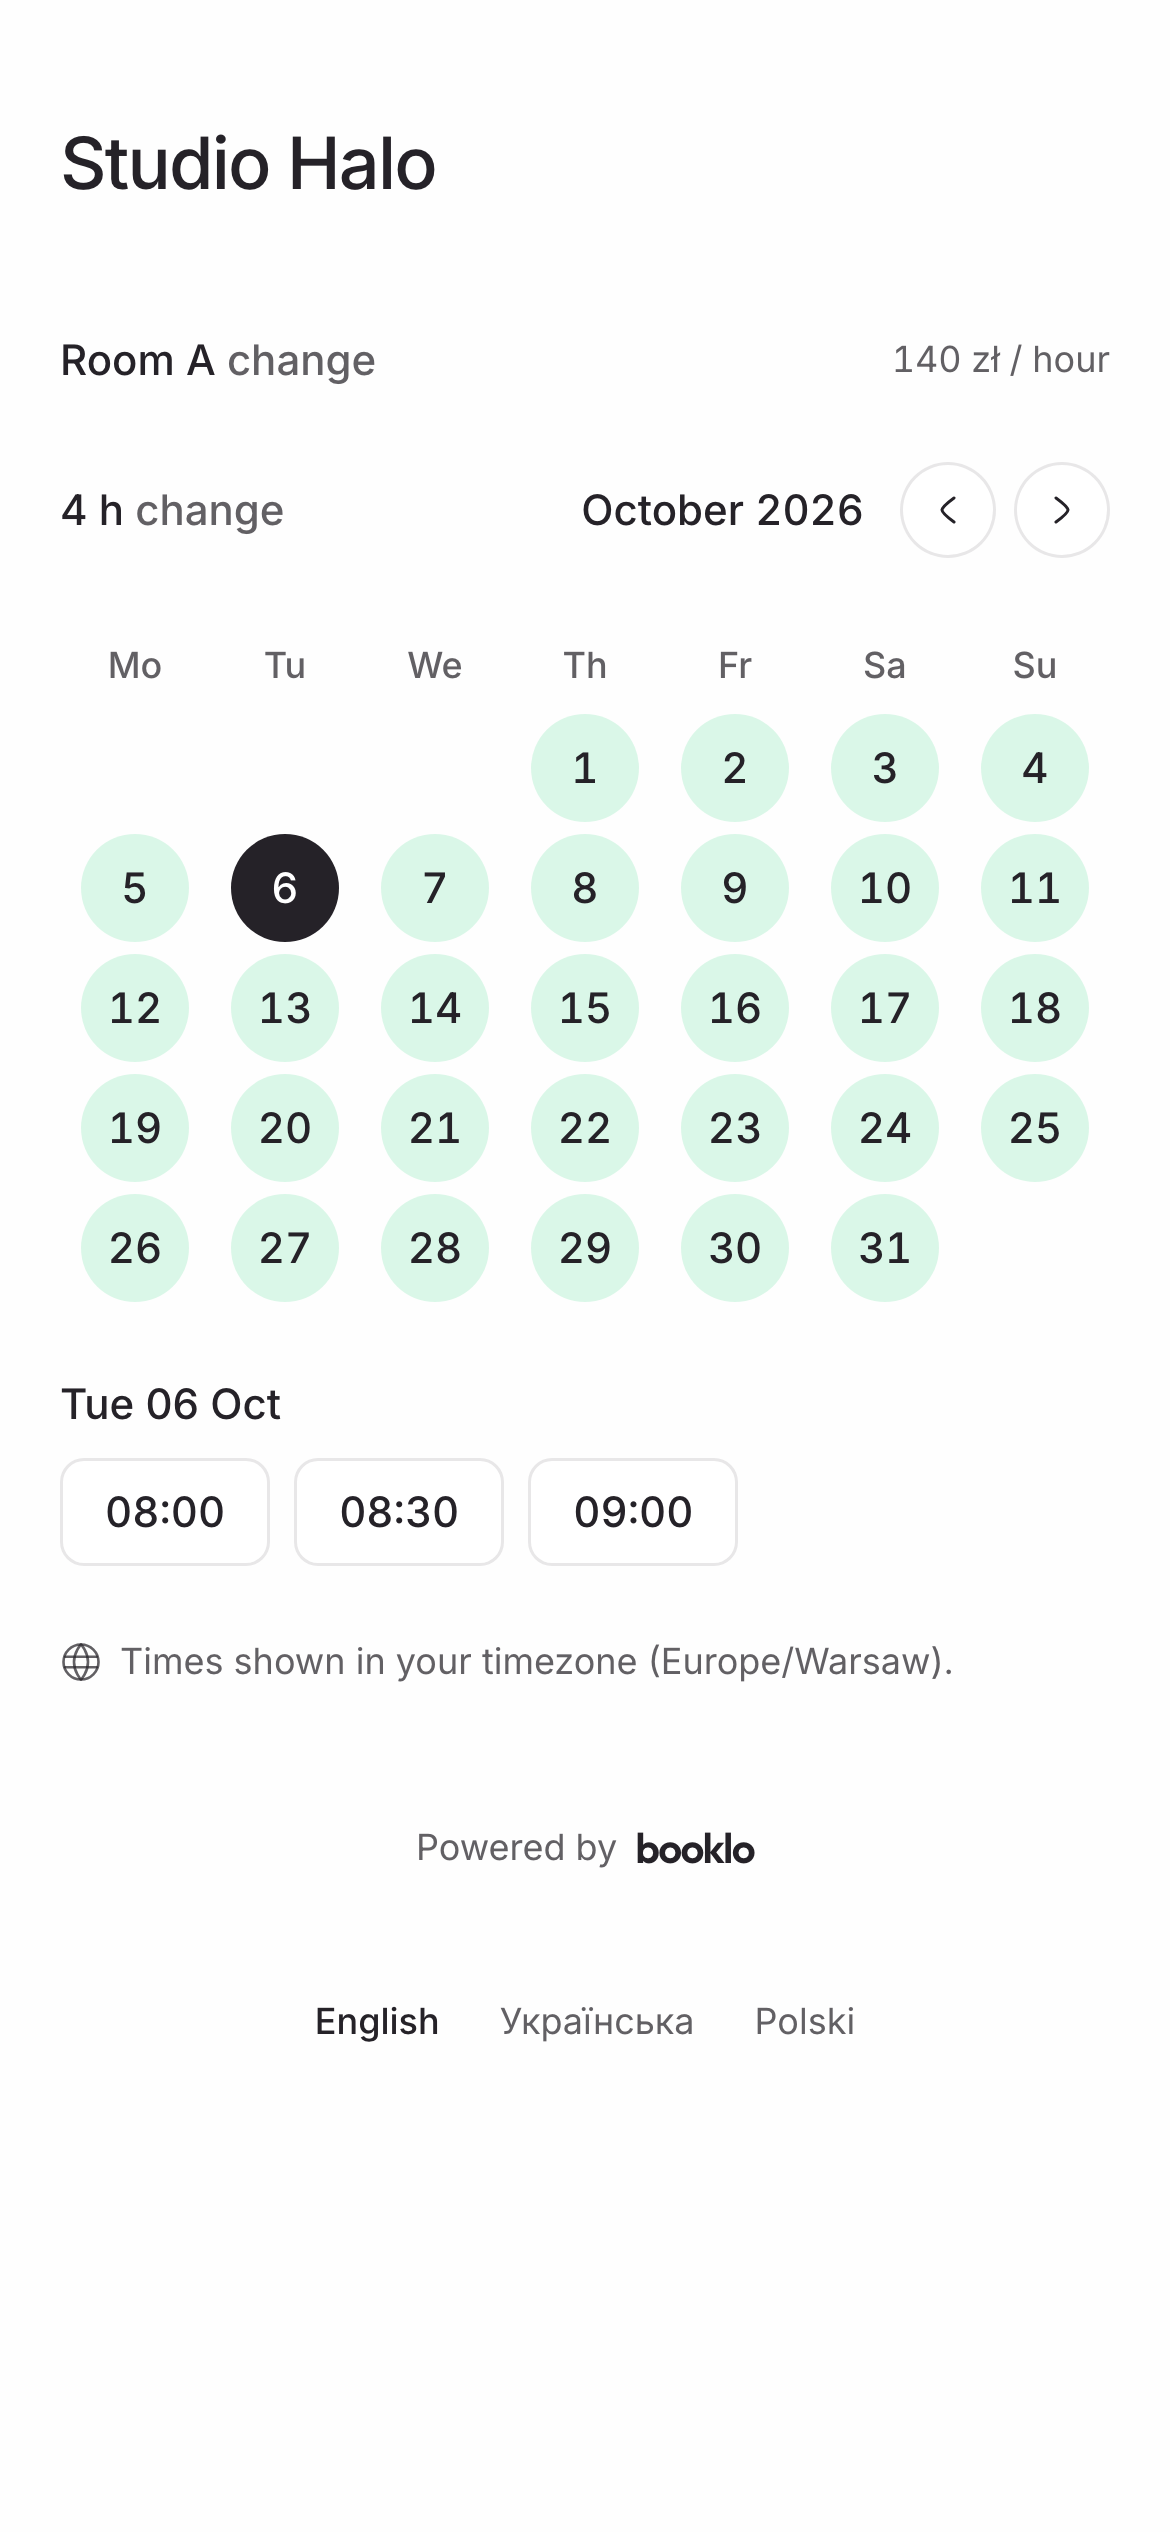
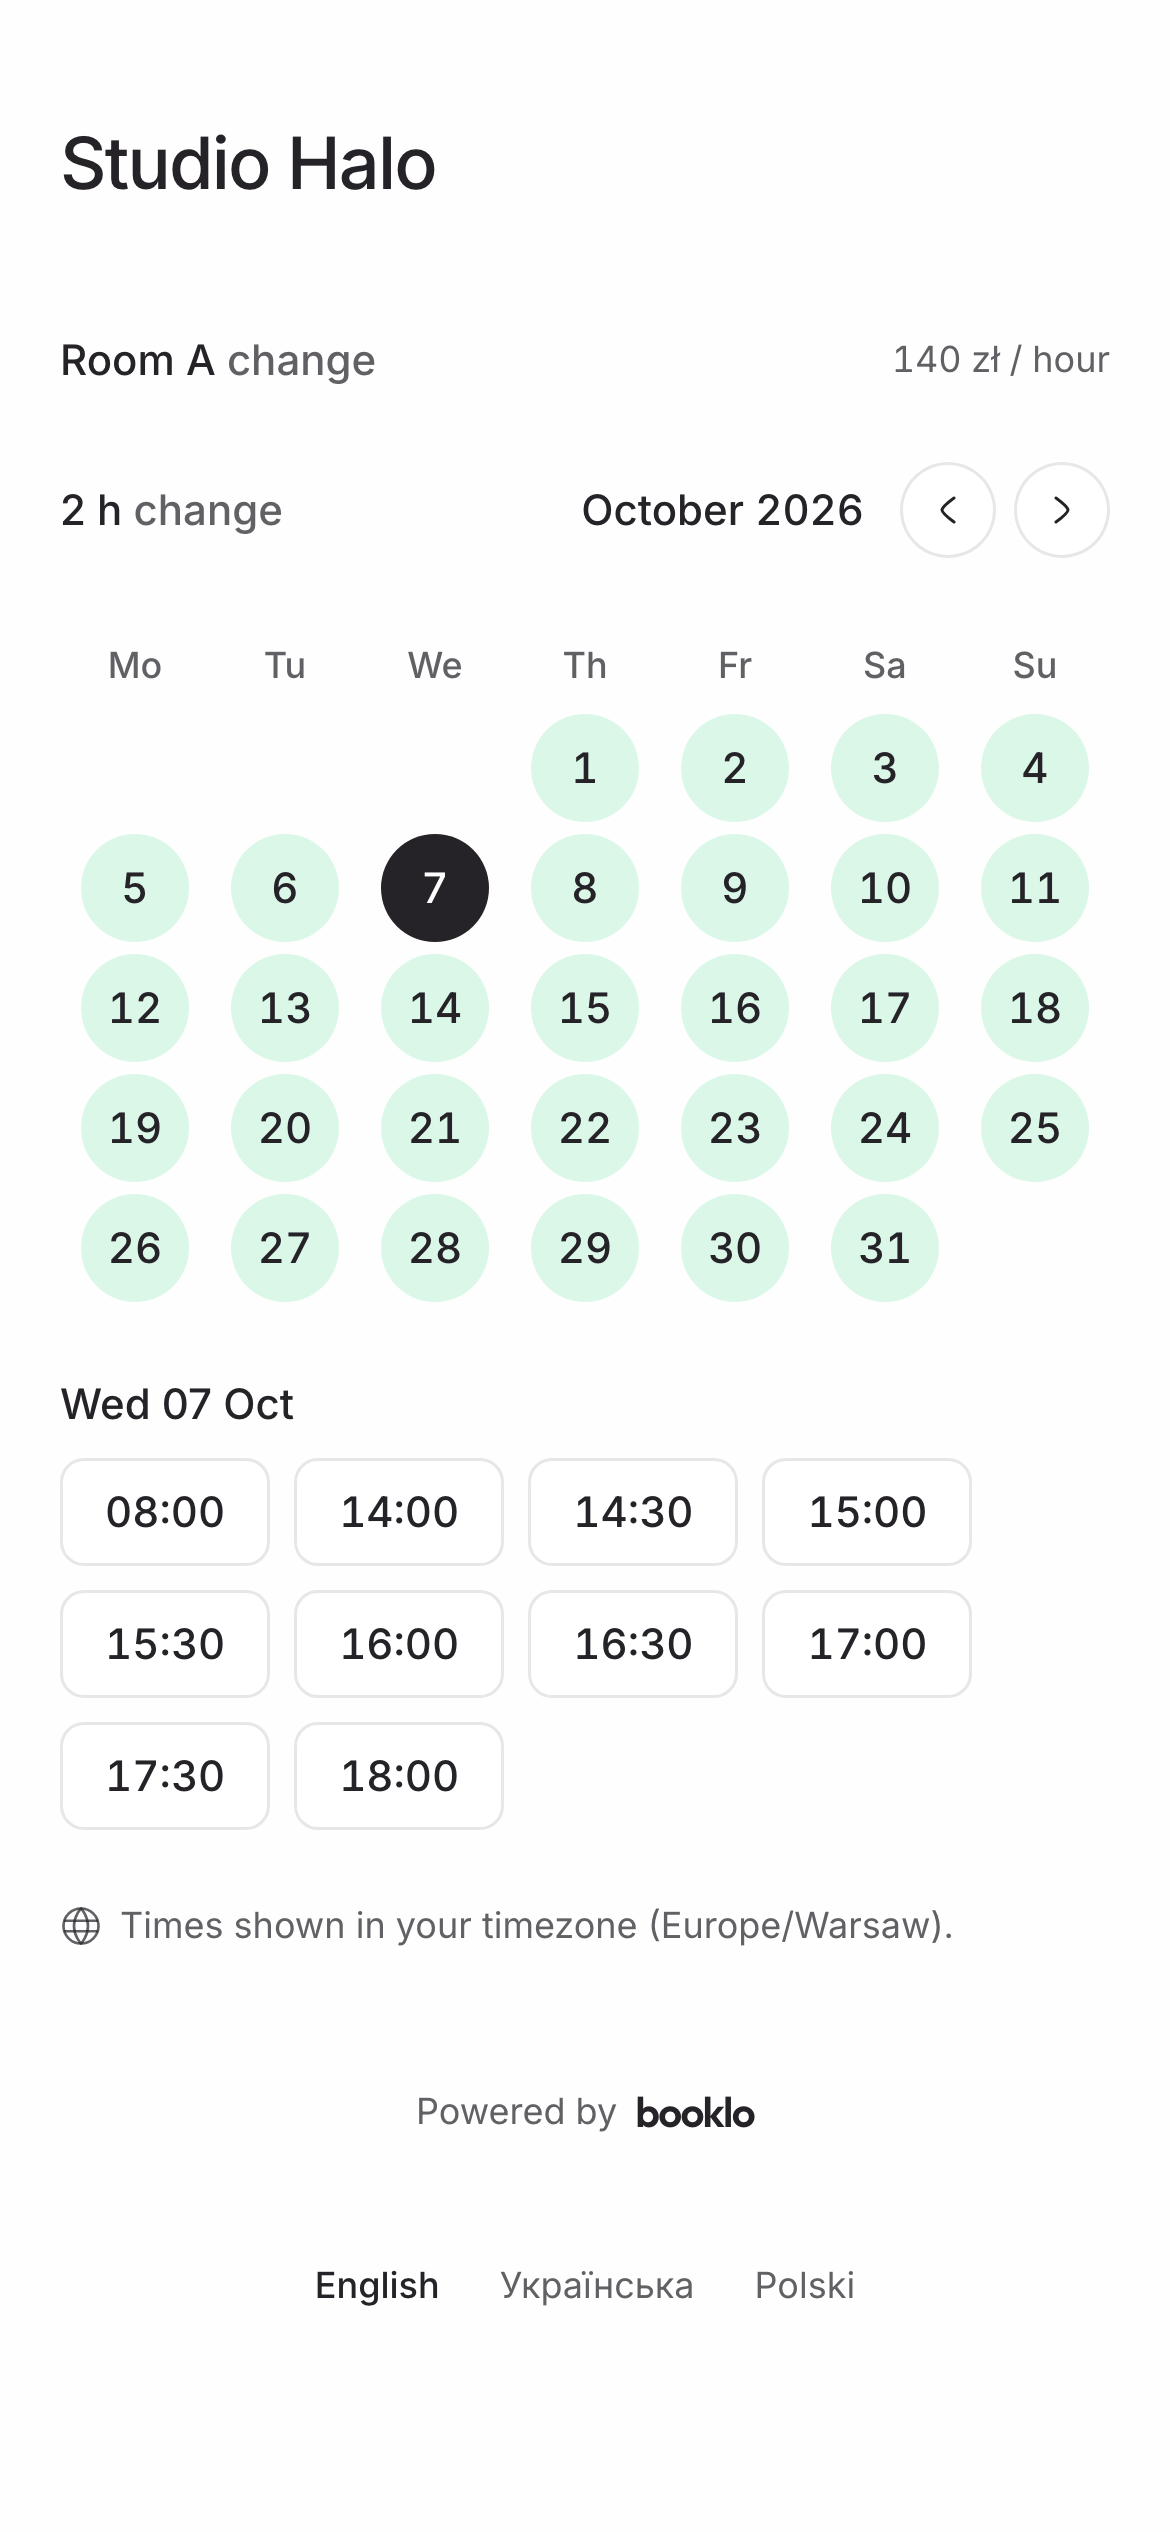
feat(landing): the story starts on the phone and lands in the week
The phone is re-shot on the booked Wednesday with two hours (its 15:00
chip is the slot the admin leaves open; the shots script now takes that
frame). The stage is the container: the phone is placed from CSS
variables and the story aims the flight from the same ones. A tap
ripples on the chip, the chip fills ink, lifts off and flies into Wed
15:00, shrinking as the block pops in with its price; the cursor now
enters later, for the move. Reduced motion parks on the end as before.

Claude-Session: https://claude.ai/code/session_01HwfEz5zNxoUcCZgEVGz8a5

diff --git a/src/app/globals.css b/src/app/globals.css
@@ -424,56 +424,104 @@
   background: rgb(37 34 40 / 0.12);
 }
 
-/* Hero story (components/hero-story.tsx): one 19s loop over the admin
-   screenshot, CSS only, every player on the same clock (started once the
-   screenshot has risen; 1% = 190ms). Four beats: the cursor glides in on
-   the strong ease-in-out, dips to press, drags two hours (the selection
-   grows with it, same curve, same interval, so they stay in step) while
-   the price tag prices them; the block pops in as the calendar's pending
-   ghost and turns solid when the deposit notice arrives; the cursor grabs
-   the block (it lifts) and carries it one column right and four hours up
-   (block and cursor share the move's keyframes); the overtime tail grows
-   from the block's floor and the charge notice arrives; then everything
-   leaves the way it came and the loop rests. The three notices share one
-   keyframe and take their turns by animation-delay. Percent positions are
-   the screenshot's own grid; cqw sizes follow its width (the box is 1.6:1,
-   so 1% of height = 0.625cqw). Transform and opacity, plus the block's
-   colour flip. The move's curve is written out inside the block's
-   keyframes: Chrome drops a var() in a keyframe's animation-timing-
-   function, and the block must ride the cursor's strong ease-in-out. Reduced motion parks on the end: the block moved and
-   paid, the last notice shown, no cursor. */
-.marketing .hs {
+/* Hero story (components/hero-story.tsx): one 19s loop across the phone
+   and the admin screenshot, CSS only, every player on the same clock
+   (started once the screenshot has risen; 1% = 190ms). Four beats: a tap
+   ripples on the phone's 15:00 chip, the chip fills ink, lifts off and
+   flies into the week on the strong ease-in-out, shrinking as it lands;
+   the block pops in as the calendar's pending ghost with the price tag
+   above it, and turns solid when the deposit notice arrives; the cursor
+   glides in, dips to grab the block (it lifts) and carries it one column
+   right and four hours up (block and cursor share the move's keyframes);
+   the overtime tail grows from the block's floor and the charge notice
+   arrives; then everything leaves the way it came and the loop rests.
+   The three notices share one keyframe and take their turns by
+   animation-delay. The stage is the container: percent positions are the
+   screenshot's own grid, cqw sizes follow its width (the box is 1.6:1, so
+   1% of height = 0.625cqw), and the phone's frame is placed here from the
+   same variables the flight is aimed with (the chip's centre sits 0.2585
+   phone widths in from the phone's right edge and 0.3077 up from its
+   floor). Transform and opacity, plus the block's colour flip. The move's
+   curve is written out inside the keyframes: Chrome drops a var() in a
+   keyframe's animation-timing-function, and the block must ride the
+   cursor's strong ease-in-out. Reduced motion parks on the end: the block
+   moved and paid, the last notice shown, no cursor. */
+.marketing .hero-stage {
   container-type: inline-size;
+  --phone-w: 34cqw;
+  --phone-r: -8px;
+  --phone-b: -20px;
 }
-.marketing .hs :is(.hs-select, .hs-tag, .hs-block, .hs-tail, .hs-time-was, .hs-time-now, .hs-cursor, .hs-notice) {
+@media (min-width: 640px) {
+  .marketing .hero-stage { --phone-w: 210px; --phone-r: -16px; --phone-b: -32px; }
+}
+@media (min-width: 1024px) {
+  .marketing .hero-stage { --phone-w: 248px; --phone-r: -24px; }
+}
+.marketing .hs-phone {
+  position: absolute;
+  right: var(--phone-r);
+  bottom: var(--phone-b);
+  width: var(--phone-w);
+}
+.marketing .hs {
+  --chip-x: calc(100cqw - var(--phone-r) - 0.2585 * var(--phone-w));
+  --chip-y: calc(62.5cqw - var(--phone-b) - 0.3077 * var(--phone-w));
+  /* the block's centre: Wed 15:00–17:00 */
+  --slot-x: 49.625cqw;
+  --slot-y: 45.75cqw;
+}
+.marketing .hs :is(.hs-tap, .hs-fly, .hs-tag, .hs-block, .hs-tail, .hs-time-was, .hs-time-now, .hs-cursor, .hs-notice) {
   animation-duration: 19s;
   animation-delay: 1.4s;
   animation-iteration-count: infinite;
   animation-fill-mode: both;
 }
-.marketing .hs-select,
-.marketing .hs-block {
+/* the tap: a soft disc on the chip */
+.marketing .hs-tap {
   position: absolute;
-  left: 44.5%;
-  top: 66.4%;
-  width: 10.25%;
-  height: 13.6%;
-  border-radius: 0.42cqw;
+  left: var(--chip-x);
+  top: var(--chip-y);
+  width: calc(0.16 * var(--phone-w));
+  height: calc(0.16 * var(--phone-w));
+  translate: -50% -50%;
+  border-radius: 999px;
+  background: rgb(37 34 40 / 0.22);
+  animation-name: hs-tap;
+  animation-timing-function: var(--ease-strong);
 }
-.marketing .hs-select {
-  background: rgb(105 117 226 / 0.14);
-  box-shadow: inset 0 0 0 1px rgb(105 117 226 / 0.55);
-  transform-origin: top;
-  animation-name: hs-select;
-  animation-timing-function: var(--ease-in-out-strong);
+@keyframes hs-tap {
+  0%, 3.2% { opacity: 0.8; transform: scale(0.4); }
+  6.3%, 100% { opacity: 0; transform: scale(1.9); }
 }
-@keyframes hs-select {
-  0%, 8.4% { opacity: 0; transform: scaleY(0.06); }
-  9.5% { opacity: 1; }
-  14.7% { opacity: 1; transform: scaleY(1); }
-  16.3%, 100% { opacity: 0; transform: scaleY(1); }
+/* the chip, filled ink, then in flight to the slot */
+.marketing .hs-fly {
+  position: absolute;
+  left: var(--slot-x);
+  top: var(--slot-y);
+  width: calc(0.1796 * var(--phone-w));
+  height: calc(0.0923 * var(--phone-w));
+  translate: -50% -50%;
+  display: grid;
+  place-items: center;
+  border-radius: calc(0.031 * var(--phone-w));
+  background: #252228;
+  color: #fff;
+  font-size: calc(0.041 * var(--phone-w));
+  font-variant-numeric: tabular-nums;
+  box-shadow: 0 8px 20px -8px rgb(37 34 40 / 0.5);
+  --from: translate(calc(var(--chip-x) - var(--slot-x)), calc(var(--chip-y) - var(--slot-y)));
+  animation-name: hs-fly;
+  animation-timing-function: var(--ease-strong);
 }
-/* the price of the dragged hours, a tooltip above the selection */
+@keyframes hs-fly {
+  0%, 3.4% { opacity: 0; transform: var(--from) scale(0.96); }
+  4.2% { opacity: 1; transform: var(--from) scale(1); }
+  7.9% { opacity: 1; transform: var(--from) scale(1); animation-timing-function: cubic-bezier(0.77, 0, 0.175, 1); }
+  13.2% { opacity: 1; }
+  14.2%, 100% { opacity: 0; transform: translate(0, 0) scale(0.55); }
+}
+/* the price of the booked hours, a tooltip above the block */
 .marketing .hs-tag {
   position: absolute;
   left: 44.5%;
@@ -491,10 +539,18 @@
   animation-timing-function: var(--ease-strong);
 }
 @keyframes hs-tag {
-  0%, 12.6% { opacity: 0; transform: translateY(4px); }
-  14.2% { opacity: 1; transform: none; }
-  20% { opacity: 1; transform: none; }
-  22.1%, 100% { opacity: 0; transform: none; }
+  0%, 16.3% { opacity: 0; transform: translateY(4px); }
+  17.9% { opacity: 1; transform: none; }
+  24.2% { opacity: 1; transform: none; }
+  26.3%, 100% { opacity: 0; transform: none; }
+}
+.marketing .hs-block {
+  position: absolute;
+  left: 44.5%;
+  top: 66.4%;
+  width: 10.25%;
+  height: 13.6%;
+  border-radius: 0.42cqw;
 }
 .marketing .hs-block {
   display: flex;
@@ -514,8 +570,8 @@
 .marketing .hs-block-icon { width: 0.83cqw; height: 0.83cqw; vertical-align: -0.07cqw; }
 .marketing .hs-block-muted { color: #6f6d75; }
 @keyframes hs-block {
-  0%, 15% { opacity: 0; transform: translate(0, 0) scale(0.96); border-style: dashed; background: rgb(255 255 255 / 0.5); }
-  16.8% { opacity: 1; transform: translate(0, 0) scale(1); }
+  0%, 12.9% { opacity: 0; transform: translate(0, 0) scale(0.96); border-style: dashed; background: rgb(255 255 255 / 0.5); }
+  14.7% { opacity: 1; transform: translate(0, 0) scale(1); }
   27.9% { border-style: dashed; background: rgb(255 255 255 / 0.5); }
   28.9% { border-style: solid solid solid dashed; background: #fff; }
   50.5% { transform: translate(0, 0) scale(1); box-shadow: 0 1px 2px rgb(0 0 0 / 0.05); }
@@ -576,14 +632,8 @@
   animation-timing-function: var(--ease-in-out-strong);
 }
 @keyframes hs-cursor {
-  0% { opacity: 0; transform: translate(-30cqw, 20cqw); }
-  1.6% { opacity: 1; }
-  7.4% { transform: translate(0, 0); }
-  8.2% { transform: translate(0, 0) scale(0.86); }
-  8.9% { transform: translate(0, 0); }
-  14.7% { transform: translate(0, 8.5cqw); }
-  21% { transform: translate(7cqw, 10cqw); }
-  45.3% { transform: translate(7cqw, 10cqw); }
+  0%, 41.5% { opacity: 0; transform: translate(-30cqw, 20cqw); }
+  43% { opacity: 1; }
   50.5% { transform: translate(0.1cqw, 4.25cqw); }
   51.3% { transform: translate(0.1cqw, 4.25cqw) scale(0.86); }
   52.1% { transform: translate(0.1cqw, 4.25cqw); }
@@ -733,8 +783,8 @@
   .animate-pop { animation: none; }
   .marketing .hw { transform: none; filter: none; animation: fade-only 0.2s ease both; }
   .marketing .hero-rise { transform: none; animation: fade-only 0.2s ease both; }
-  .marketing .hs :is(.hs-select, .hs-tag, .hs-block, .hs-tail, .hs-time-was, .hs-time-now, .hs-cursor, .hs-notice) { animation: none; }
-  .marketing .hs :is(.hs-cursor, .hs-select, .hs-tag, .hs-notice-pay, .hs-notice-move) { display: none; }
+  .marketing .hs :is(.hs-tap, .hs-fly, .hs-tag, .hs-block, .hs-tail, .hs-time-was, .hs-time-now, .hs-cursor, .hs-notice) { animation: none; }
+  .marketing .hs :is(.hs-cursor, .hs-tap, .hs-fly, .hs-tag, .hs-time-was, .hs-notice-pay, .hs-notice-move) { display: none; }
   .marketing .hs-block { transform: translate(10.6cqw, -17cqw); border-style: solid solid solid dashed; border-radius: 0.42cqw 0.42cqw 0 0; background: #fff; }
 }
 

diff --git a/src/features/marketing/components/landing-hero.tsx b/src/features/marketing/components/landing-hero.tsx
@@ -12,8 +12,9 @@ import publicPhone from "../images/public-phone.png";
    product: the admin's week (a real screenshot, scripts/landing-shots.mjs)
    on the plain ground, rising into view, the live page on a phone leaning
    on its bottom-right corner (over the closed weekend, so it hides no
-   booking), and the story of one booking played over both in CSS
-   (hero-story.tsx). */
+   booking), and the story of one booking played across both in CSS
+   (hero-story.tsx): it starts with a tap on the phone and lands in the
+   week. */
 const WORD_MS = 60;
 
 export function Hero({ host }: { host: string }) {
@@ -43,7 +44,7 @@ export function Hero({ host }: { host: string }) {
 
       {/* the product */}
       <div className="hero-rise mx-auto mt-16 w-full max-w-5xl px-4 sm:mt-24 sm:px-8">
-        <div className="relative">
+        <div className="hero-stage relative">
           <div className="bg-card ring-border overflow-hidden rounded-[16px] shadow-[0_24px_60px_-28px_rgb(37_34_40/0.25)] ring-1 sm:rounded-[22px]">
             <Image
               src={adminWeek}
@@ -53,13 +54,15 @@ export function Hero({ host }: { host: string }) {
               className="h-auto w-full"
             />
           </div>
-          <div className="bg-card ring-border absolute -right-2 -bottom-5 w-[34%] overflow-hidden rounded-[18px] shadow-[0_24px_60px_-16px_rgb(37_34_40/0.35)] ring-1 sm:-right-4 sm:-bottom-8 sm:w-[210px] sm:rounded-[26px] lg:-right-6 lg:w-[248px] lg:rounded-[30px]">
+          {/* placed by globals.css (.hs-phone): the story needs the phone's
+              geometry to aim the booking's flight from its 15:00 chip */}
+          <div className="hs-phone bg-card ring-border overflow-hidden rounded-[18px] shadow-[0_24px_60px_-16px_rgb(37_34_40/0.35)] ring-1 sm:rounded-[26px] lg:rounded-[30px]">
             <Image
               src={publicPhone}
-              alt="The studio's live booking page on a phone: Room A for four hours, the month with open days, the free windows on a Tuesday."
+              alt="The studio's live booking page on a phone: Room A for two hours, the month with open days, Wednesday's free windows."
               sizes="(min-width: 1024px) 248px, (min-width: 640px) 210px, 34vw"
               className="h-auto w-full"
-              style={{ aspectRatio: "390 / 600", objectFit: "cover", objectPosition: "top" }}
+              style={{ aspectRatio: "390 / 624", objectFit: "cover", objectPosition: "top" }}
             />
           </div>
           <HeroStory />

diff --git a/src/features/marketing/components/hero-story.tsx b/src/features/marketing/components/hero-story.tsx
@@ -1,22 +1,25 @@
 import { HugeiconsIcon } from "@hugeicons/react";
 import { House01Icon } from "@hugeicons/core-free-icons";
 
-/* The story over the week (globals.css "Hero story"): one 19s CSS loop, no
-   JS, four beats of one booking. A cursor comes in and drags Wednesday
-   15:00–17:00 (the grid's own gesture) while a price tag prices the two
-   hours; the booking lands as the calendar's pending ghost (dashed,
-   translucent); the deposit notice arrives and the block turns solid; the
-   cursor grabs the block and moves it to Thursday 11:00; the session runs
-   half an hour over and the charge is added. Geometry is % of the
-   screenshot (2880×1800: the Wed column starts 44.5% in and is 10.25%
-   wide, Thu one column right; hours are 6.8% tall from 18.8%); the
-   block's type is in cqw so it scales with the screenshot's own. Every
-   notice shares one keyframe and takes its turn by animation-delay.
-   Decorative: the screenshot's alt tells the reader what the admin is. */
+/* The story across the phone and the week (globals.css "Hero story"): one
+   19s CSS loop, no JS, four beats of one booking. A client taps 15:00 on
+   the phone's Wednesday; the chip lifts off and flies into the week,
+   landing as the calendar's pending ghost (dashed, translucent) with the
+   price it worked out; the deposit notice arrives and the block turns
+   solid; the studio's cursor grabs the block and moves it to Thursday
+   11:00; the session runs half an hour over and the charge is added.
+   Geometry is % of the screenshot (2880×1800: the Wed column starts 44.5%
+   in and is 10.25% wide, Thu one column right; hours are 6.8% tall from
+   18.8%) and, for the chip, the phone's own frame (public-phone.png,
+   390×624 shown: the 15:00 chip sits 65.2% in, 77.9% down); the block's
+   type is in cqw so it scales with the screenshot's own. Every notice
+   shares one keyframe and takes its turn by animation-delay. Decorative:
+   the images' alts tell the reader what they are. */
 export function HeroStory() {
   return (
     <div aria-hidden="true" className="hs pointer-events-none absolute inset-0">
-      <div className="hs-select" />
+      <span className="hs-tap" />
+      <span className="hs-fly">15:00</span>
       <span className="hs-tag">2 h · 280 zł</span>
       <div className="hs-block">
         <span className="font-medium">
